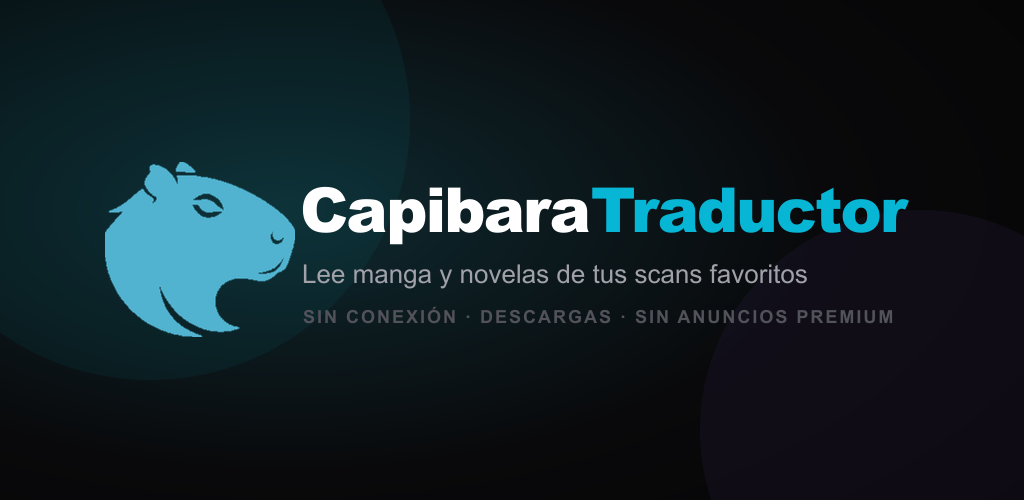
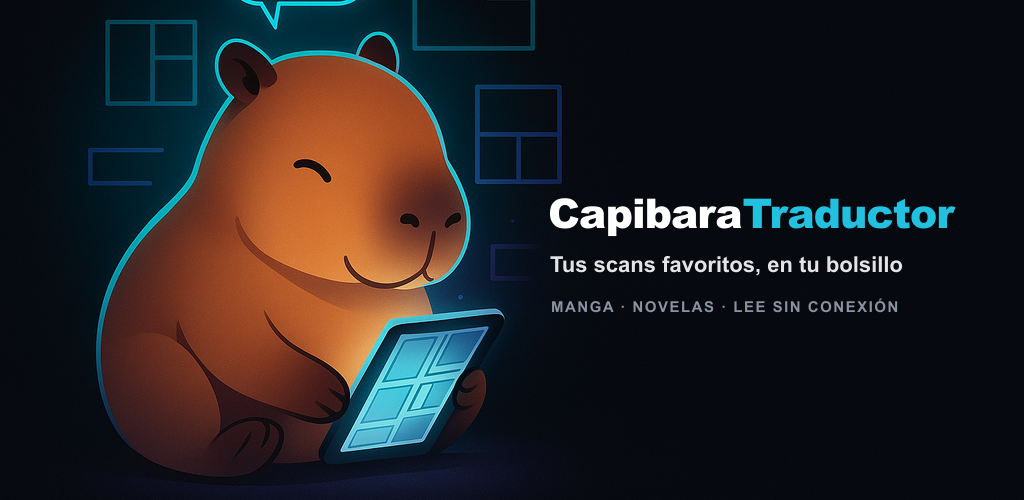
chore(android): AI-generated branding pack + publishing guide
Adds AI-generated (gpt-image-1) branding: app icon, feature graphic
(1024x500), and ad banners, all sized to exact Play specs and validated.
Regenerates the launcher icon from the same art so store and installed
icons match. Adds PUBLICAR.md with app name, package id, keystore info,
asset checklist, listing texts and step-by-step publishing.

diff --git a/play-store/PUBLICAR.md b/play-store/PUBLICAR.md
@@ -1,0 +1,139 @@
+# 📦 Cómo publicar CapibaraTraductor en Google Play — todo en un lugar
+
+Este archivo tiene TODO lo necesario para subir la app a la Play Store.
+
+---
+
+## 1. Datos de la app (identidad)
+
+| Dato | Valor |
+|---|---|
+| **Nombre de la app** | `CapibaraTraductor` |
+| **Nombre del paquete (Application ID)** | `com.capibaratraductor.app` |
+| **Versión visible (versionName)** | `1.0` |
+| **Código de versión (versionCode)** | `1` |
+| **Categoría** | Cómics (Comics) |
+| **Idioma principal** | Español (es) |
+| **URL de política de privacidad** | https://capibaratraductor.com/privacy |
+
+> El Application ID `com.capibaratraductor.app` es PERMANENTE: una vez publicado
+> no se puede cambiar. Cada actualización debe subir el `versionCode` en +1
+> (editar `android/app/build.gradle`).
+
+---
+
+## 2. El archivo que se sube (AAB)
+
+Google Play exige un **Android App Bundle (.aab)**, no el APK.
+
+- **Sube este:** `capibara-android-build/capibaratraductor-aab/app-release.aab`
+- El APK (`.../capibaratraductor-apk/app-release.apk`) es solo para instalar de
+  prueba en un teléfono directamente (activando "orígenes desconocidos").
+
+Ambos ya están **firmados** con tu keystore.
+
+### Para regenerar el AAB/APK (cuando hagas cambios)
+1. Sube el `versionCode` en `android/app/build.gradle`.
+2. `git push` a la rama `mobile-app-overhaul` (o crea un tag `v*`). Eso dispara
+   el workflow de GitHub Actions que compila y firma.
+3. Descarga el artefacto:
+   `gh run download <run-id> -D <carpeta>`
+   (o desde la pestaña Actions del repo → el run → Artifacts).
+
+---
+
+## 3. 🔑 Keystore de firma (GUÁRDALO — es crítico)
+
+La app está firmada con esta clave. **Si la pierdes, NO podrás publicar
+actualizaciones nunca más** (tendrías que publicar una app nueva desde cero).
+
+| Dato | Valor |
+|---|---|
+| **Archivo** | `capibara-release.keystore` |
+| **Ubicación actual** | carpeta scratchpad de la sesión (temporal) |
+| **Alias** | `capibara` |
+| **Contraseña (store y key)** | `Capibara1784820728Key!` |
+| **Validez** | 10.000 días (~27 años) |
+
+**HAZ ESTO YA:** copia `capibara-release.keystore` a un lugar seguro y permanente
+(gestor de contraseñas, disco cifrado, respaldo en la nube privado). No lo subas
+al repositorio (ya está en `.gitignore`).
+
+Los secretos para el CI ya están cargados en GitHub (`gh secret list`):
+`CAPIBARA_KEYSTORE_BASE64`, `CAPIBARA_KEYSTORE_PASSWORD`, `CAPIBARA_KEY_ALIAS`.
+
+> Recomendado: activa **Play App Signing** al crear la app (Google guarda la
+> clave de firma final y tú solo usas esta como "clave de subida"). Así, si
+> pierdes esta keystore, Google puede ayudarte a resetear la clave de subida.
+
+---
+
+## 4. Recursos gráficos de la ficha (ya listos en esta carpeta)
+
+| Recurso | Archivo | Medida |
+|---|---|---|
+| Ícono | `icon-512.png` | 512×512 |
+| Gráfico destacado | `feature-graphic.png` | 1024×500 |
+| Captura 1 | `screenshots/screenshot-1.png` | 1080×2160 |
+| Captura 2 | `screenshots/screenshot-2.png` | 1080×2160 |
+| Captura 3 | `screenshots/screenshot-3.png` | 1080×2160 |
+| Anuncios (extra) | `ads/ad-wide-1200x628.png`, `ads/ad-square-1080.png` | — |
+
+Todos validados con las medidas exactas que pide Play.
+
+---
+
+## 5. Textos de la ficha
+
+**Nombre:** CapibaraTraductor
+
+**Descripción corta (máx 80):**
+> Lee manga y novelas de tus scans favoritos, con descargas para leer sin conexión.
+
+**Descripción completa:** ver `listing.md` (está redactada y lista para pegar).
+
+---
+
+## 6. Pasos en Google Play Console
+
+1. Entra a https://play.google.com/console con tu cuenta de desarrollador (ya pagaste los US$25 de licencia).
+2. **Crear app** → nombre `CapibaraTraductor`, idioma español, tipo App, Gratis o de pago (ver sección 8).
+3. **Configuración → Firma de app:** activa Play App Signing.
+4. **Ficha de Play Store principal:** pega los textos (sección 5) y sube los gráficos (sección 4).
+5. **Producción → Crear nueva versión:** sube `app-release.aab`.
+6. Completa los cuestionarios obligatorios:
+   - **Clasificación de contenido** (ver aviso en sección 7).
+   - **Público objetivo y contenido.**
+   - **Seguridad de los datos** (declara qué datos recopila la app: cuenta, email, etc.).
+   - **Política de privacidad:** https://capibaratraductor.com/privacy
+7. Envía a revisión. La primera revisión suele tardar de unas horas a varios días.
+
+---
+
+## 7. ⚠ Avisos importantes (léelos)
+
+- **Contenido +18:** la plataforma tiene contenido para adultos en el modo `red`.
+  Al llenar la **clasificación de contenido** debes declararlo con honestidad, o
+  la app puede ser retirada. Considera filtrar/ocultar el +18 dentro de la app
+  para la versión de Play si quieres una clasificación más baja y menos fricción.
+
+- **Contenido de terceros (scanlation):** la app da acceso a manga traducido por
+  comunidades. Google Play y los dueños de los derechos son estrictos con apps
+  que monetizan contenido con copyright sin licencia. Es un riesgo real de
+  retiro o reclamo — más aún si la app es **de pago**. Es tu decisión de negocio,
+  pero conviene tenerlo claro antes de publicar.
+
+- **Requisito de funcionalidad:** una app que solo "envuelve un sitio web" puede
+  ser rechazada. La nuestra añade valor nativo real (descargas cifradas offline),
+  lo que la justifica como app legítima.
+
+---
+
+## 8. Modelo de precio — mi recomendación
+
+Ver la conversación: recomendación de **app gratuita** monetizada con lo que ya
+existe (suscripciones por scan + anuncios + el límite de descargas 6/24 como
+gancho a premium). Cobrar por la app (pago único o suscripción) reduce mucho la
+descarga y suma riesgo legal por el contenido de terceros. Si aun así se quiere
+cobrar, un precio bajo ajustado a LATAM (US$1.99–2.99) o un único plan premium
+in-app. Decisión final tuya.

diff --git a/play-store/README.md b/play-store/README.md
@@ -1,0 +1,35 @@
+# Pack de branding — CapibaraTraductor (Google Play)
+
+Assets generados con IA (OpenAI gpt-image-1) y ajustados a las medidas exactas
+de Play Store. Todos validados con QA de dimensiones y de canal alfa.
+
+## Para la ficha de Play Store (obligatorios)
+| Archivo | Medida | Uso |
+|---|---|---|
+| `icon-512.png` | 512×512 | Ícono de la app en la ficha |
+| `feature-graphic.png` | 1024×500 (sin alfa) | Gráfico destacado (arriba de la ficha) |
+| `screenshots/screenshot-1.png` | 1080×2160 | Captura 1 — descubrir manga/novelas |
+| `screenshots/screenshot-2.png` | 1080×2160 | Captura 2 — seguir scans |
+| `screenshots/screenshot-3.png` | 1080×2160 | Captura 3 — descargas offline |
+
+Las capturas son de la app real (móvil) enmarcadas con fondo de marca y título.
+El ratio 9:18 está dentro del rango que exige Play (9:16 a 9:21).
+
+## Para publicidad / redes (extra)
+| Archivo | Medida | Uso |
+|---|---|---|
+| `ads/ad-wide-1200x628.png` | 1200×628 | Anuncio Facebook/Google display |
+| `ads/ad-square-1080.png` | 1080×1080 | Anuncio Instagram/redes |
+
+## Fuentes / arte original
+`ai-raw/` contiene el arte generado por IA en alta resolución (hero 1536×1024,
+icono 1024×1024) por si se quieren re-encuadrar o hacer más piezas.
+
+## Ícono de la app instalada
+El ícono del launcher (todas las densidades en `android/app/src/main/res/`) se
+regeneró desde el mismo arte IA, así el ícono de la tienda y el de la app
+instalada coinciden.
+
+## Textos de la ficha
+Ver `listing.md` (nombre, descripción corta/larga, categoría, política de
+privacidad y pasos de publicación).
